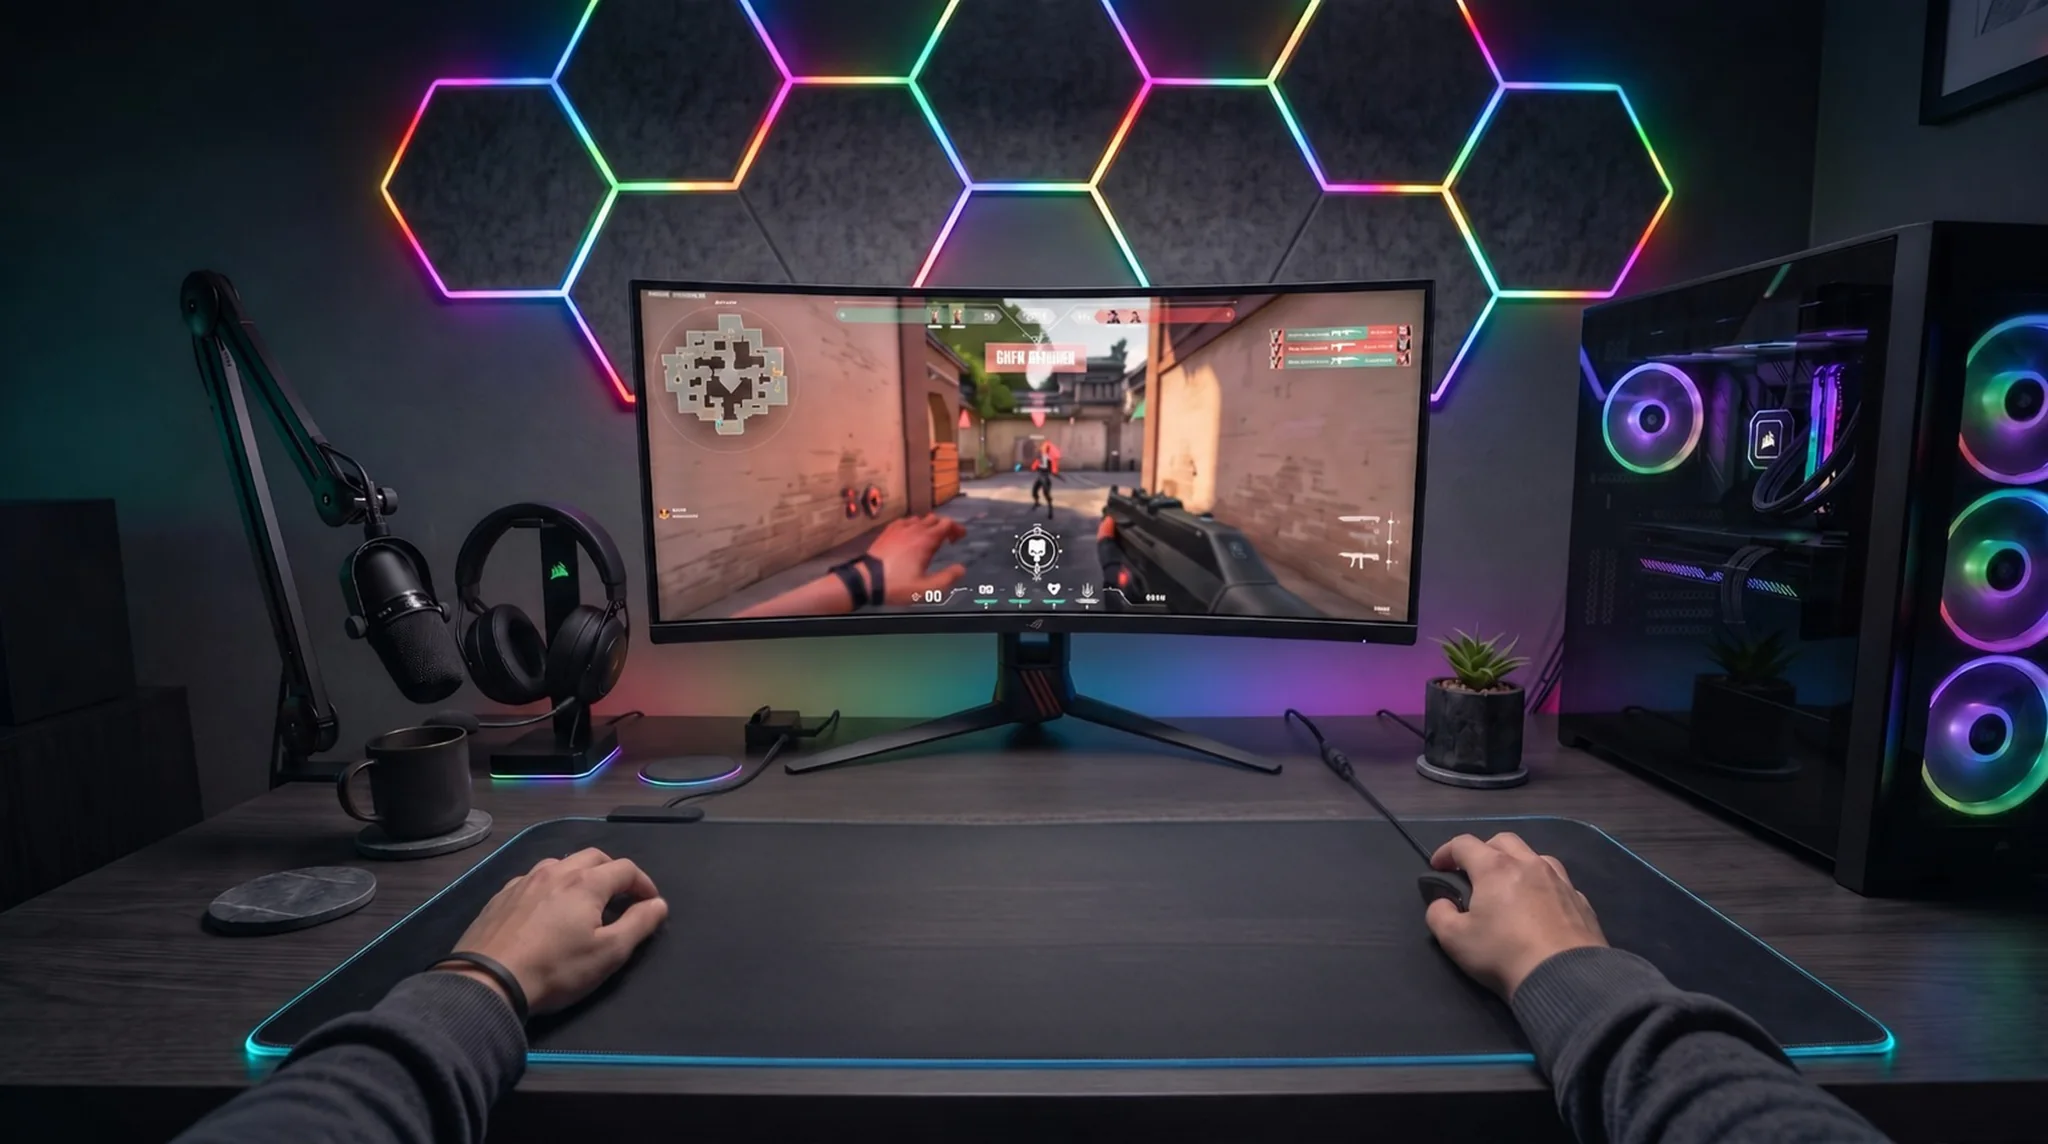
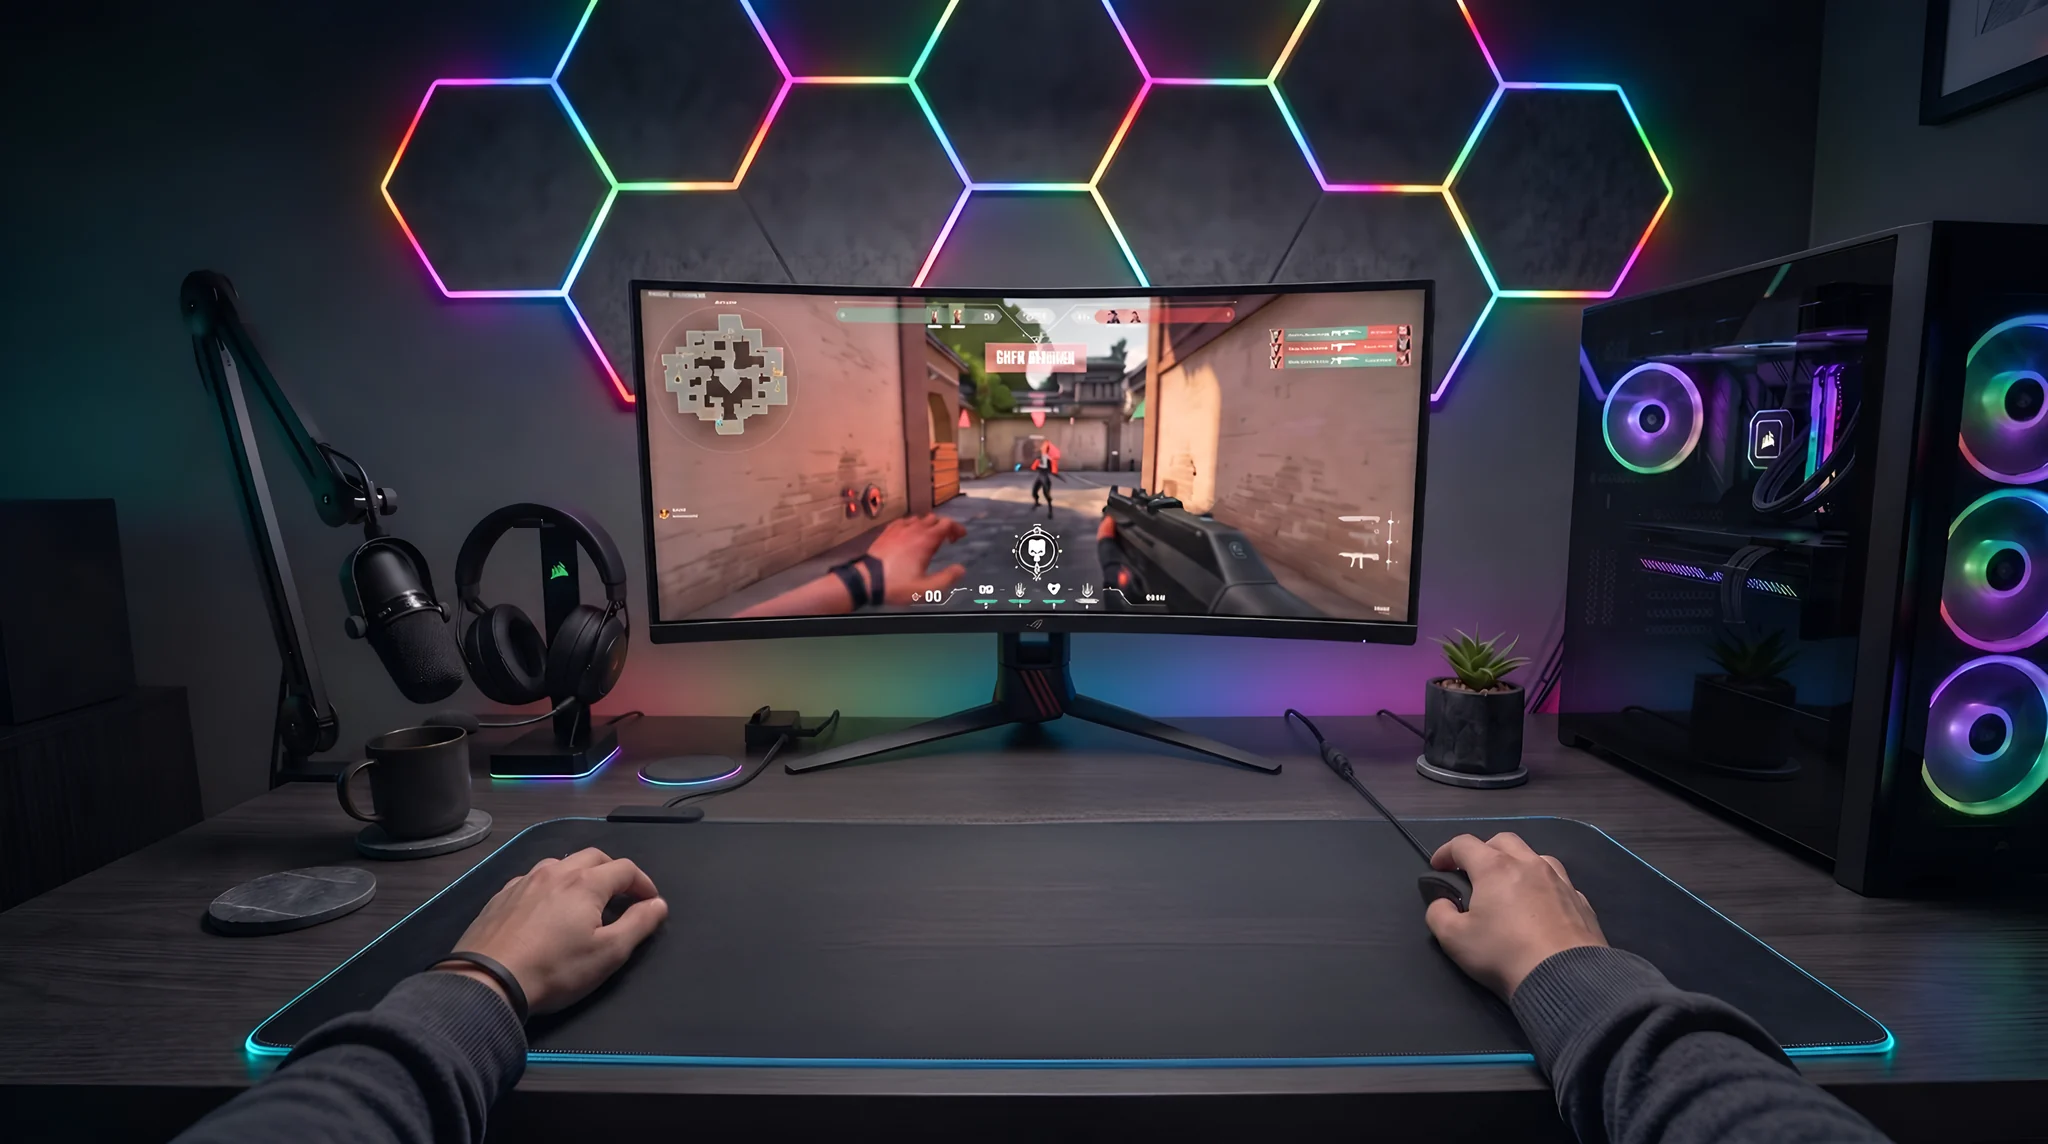
Showcase: clean, high-resolution backgrounds
- Hex wall: build_assets.py now smooths the felt texture and JPEG noise
  on the dark panels (non-local means + bilateral, blended only on dark
  wall pixels away from the monitor and PC), so the panels read as clean
  matte surfaces while the lit strips stay crisp.
- Resolution: backgrounds are built from the Real-ESRGAN 2x sources.
  bg-<env>@2x.webp (4096 px, ~250-280 KB) is served to high-DPI screens
  via srcset; the 1x files are downscaled from the cleaned 2x images.
  Keyboard cut-outs now ship at 2x as well.

Claude-Session: https://claude.ai/code/session_01EZSq2nP3263vqTPXgFduWK

Changed region(s): [[0.875, 0.8872, 0.9375, 0.9178], [0.5, 0.4589, 0.5312, 0.5201], [0.8125, 0.4895, 0.8438, 0.5201]]

diff --git a/showcase/index.html b/showcase/index.html
@@ -8,7 +8,7 @@
   <link rel="preconnect" href="https://fonts.googleapis.com">
   <link rel="preconnect" href="https://fonts.gstatic.com" crossorigin>
   <link href="https://fonts.googleapis.com/css2?family=Archivo:wdth,wght@100..125,300..800&display=swap" rel="stylesheet">
-  <link rel="preload" as="image" href="assets/bg-ember.webp">
+  <link rel="preload" as="image" href="assets/bg-ember.webp" imagesrcset="assets/bg-ember.webp 2048w, assets/bg-ember@2x.webp 4096w" imagesizes="(max-aspect-ratio: 1/1) 220vw, 100vw">
   <link rel="preload" as="image" href="assets/kb-ember.webp">
   <link rel="stylesheet" href="style.css">
 </head>
@@ -26,9 +26,9 @@
       <div class="kb-sticky">
         <div class="kb-scene" id="scene">
           <div class="kb-env" aria-hidden="true">
-            <img class="kb-bg" src="assets/bg-ember.webp" alt="" decoding="async">
-            <img class="kb-bg" src="assets/bg-frost.webp" alt="" decoding="async">
-            <img class="kb-bg" src="assets/bg-prism.webp" alt="" decoding="async">
+            <img class="kb-bg" src="assets/bg-ember.webp" srcset="assets/bg-ember.webp 2048w, assets/bg-ember@2x.webp 4096w" sizes="(max-aspect-ratio: 1/1) 220vw, 100vw" alt="" decoding="async">
+            <img class="kb-bg" src="assets/bg-frost.webp" srcset="assets/bg-frost.webp 2048w, assets/bg-frost@2x.webp 4096w" sizes="(max-aspect-ratio: 1/1) 220vw, 100vw" alt="" decoding="async">
+            <img class="kb-bg" src="assets/bg-prism.webp" srcset="assets/bg-prism.webp 2048w, assets/bg-prism@2x.webp 4096w" sizes="(max-aspect-ratio: 1/1) 220vw, 100vw" alt="" decoding="async">
           </div>
 
           <div class="kb-spot" aria-hidden="true"></div>
@@ -36,9 +36,9 @@
           <div class="kb-layer" id="layer-rest"></div>
 
           <div class="kb-hands" aria-hidden="true">
-            <img class="kb-bg" src="assets/bg-ember.webp" alt="" decoding="async">
-            <img class="kb-bg" src="assets/bg-frost.webp" alt="" decoding="async">
-            <img class="kb-bg" src="assets/bg-prism.webp" alt="" decoding="async">
+            <img class="kb-bg" src="assets/bg-ember.webp" srcset="assets/bg-ember.webp 2048w, assets/bg-ember@2x.webp 4096w" sizes="(max-aspect-ratio: 1/1) 220vw, 100vw" alt="" decoding="async">
+            <img class="kb-bg" src="assets/bg-frost.webp" srcset="assets/bg-frost.webp 2048w, assets/bg-frost@2x.webp 4096w" sizes="(max-aspect-ratio: 1/1) 220vw, 100vw" alt="" decoding="async">
+            <img class="kb-bg" src="assets/bg-prism.webp" srcset="assets/bg-prism.webp 2048w, assets/bg-prism@2x.webp 4096w" sizes="(max-aspect-ratio: 1/1) 220vw, 100vw" alt="" decoding="async">
           </div>
 
           <div class="kb-mist" aria-hidden="true">

diff --git a/showcase/tools/build_assets.py b/showcase/tools/build_assets.py
@@ -1,12 +1,15 @@
 """Builds the optimised showcase assets from the Figma exports in assets/src.
 
-    pip install pillow numpy
+    pip install pillow numpy opencv-python-headless
     python3 showcase/tools/build_assets.py
 
 Outputs (in showcase/assets):
   bg-<env>.webp      environment photos (2048x1144)
   bg-<env>@2x.webp   4096x2288 versions for high-DPI screens, built from
-                     assets/src/bg-<env>@2x.png when present (see upscale.py)
+                     assets/src/bg-<env>@2x.png when present (see upscale.py).
+                     When the 2x source exists, the felt texture and JPEG
+                     noise on the dark hex wall are smoothed (clean_wall) and
+                     the 1x file is downscaled from that cleaned image.
   kb-<env>.webp      keyboard cut-outs with alpha (2x when available)
   hands-mask.png     union of the hand/arm silhouettes of all three photos.
                      The page uses it as a CSS mask over a copy of the
@@ -19,6 +22,7 @@ from pathlib import Path
 
 import numpy as np
 
+import cv2
 from PIL import Image, ImageChops, ImageDraw, ImageFilter
 
 ROOT = Path(__file__).resolve().parent.parent
@@ -99,6 +103,32 @@ def hand_mask(env):
     return big.resize((W, H), Image.LANCZOS).filter(ImageFilter.GaussianBlur(1.6))
 
 
+def clean_wall(im):
+    """Smooth the dark hex panels without touching the lit strips.
+
+    Non-local-means removes the fine grain, then two bilateral passes flatten
+    the blotchy felt while keeping edges. The result is blended in only on
+    dark pixels of the wall (top of the frame, away from the monitor and PC);
+    the lit strips are bright, so they stay untouched. Feathered, no seam.
+    """
+    bgr = cv2.cvtColor(np.asarray(im), cv2.COLOR_RGB2BGR)
+    smooth = cv2.fastNlMeansDenoisingColored(bgr, None, 12, 12, 7, 35)
+    for _ in range(2):
+        smooth = cv2.bilateralFilter(smooth, 15, 20, 9)
+
+    h, w = bgr.shape[:2]
+    k = w / W  # mask boxes below are in 1x photo px
+    value = bgr.max(axis=2).astype(np.float32) / 255
+    dark = np.clip((0.46 - value) / 0.12, 0, 1)
+    region = np.zeros((h, w), np.float32)
+    region[: int(560 * k), :] = 1
+    region[int(250 * k): int(640 * k), int(600 * k): int(1420 * k)] = 0  # monitor
+    region[: int(900 * k), int(1520 * k):] = 0  # PC case
+    m = cv2.GaussianBlur(dark * region, (0, 0), 6 * k)[..., None]
+    out = bgr * (1 - m) + smooth * m
+    return Image.fromarray(cv2.cvtColor(out.round().astype(np.uint8), cv2.COLOR_BGR2RGB))
+
+
 def mist(w=1024, h=512, seed=7):
     """Tileable fractal mist: low-pass filtered noise (periodic via FFT)."""
     rng = np.random.default_rng(seed)
@@ -118,11 +148,14 @@ def mist(w=1024, h=512, seed=7):
 
 def main():
     for env in ENVS:
-        bg = aligned(env, Image.open(SRC / f"bg-{env}.png").convert("RGB"))
-        bg.save(OUT / f"bg-{env}.webp", quality=84, method=6)
         hi = SRC / f"bg-{env}@2x.png"
         if hi.exists():
-            aligned(env, Image.open(hi).convert("RGB"), 2).save(OUT / f"bg-{env}@2x.webp", quality=80, method=6)
+            big = aligned(env, clean_wall(Image.open(hi).convert("RGB")), 2)
+            big.save(OUT / f"bg-{env}@2x.webp", quality=82, method=6)
+            bg = big.resize((W, H), Image.LANCZOS)
+        else:
+            bg = aligned(env, Image.open(SRC / f"bg-{env}.png").convert("RGB"))
+        bg.save(OUT / f"bg-{env}.webp", quality=86, method=6)
         # Keyboards: ship the 2x cut-out when present (drawn ~1400 device px
         # wide on large high-DPI screens), else the original export.
         kb = SRC / f"kb-{env}@2x.png"

diff --git a/showcase/README.md b/showcase/README.md
@@ -29,12 +29,16 @@ python3 -m http.server --directory showcase 8080
 
 ## Assets
 
-`assets/src` holds the Figma exports. `tools/build_assets.py` converts them to WebP,
+`assets/src` holds the Figma exports. `tools/upscale.py` makes 2x versions with Real-ESRGAN
+(the large 2x PNGs are git-ignored; rerun it to regenerate them). With those present,
+`build_assets.py` smooths the noisy felt on the dark hex wall (edge-preserving, so the lit
+strips stay crisp), writes `bg-<env>@2x.webp` for high-DPI screens via `srcset`, and
+downscales the 1x files from the cleaned images. `tools/build_assets.py` converts them to WebP,
 aligns the frost photo to the other two (it was shot slightly higher, which caused a
 double image during the cross-fade), and draws the feathered hand mask from traced
 outlines, and generates the tileable mist texture. Re-run it after you replace any image:
 
 ```sh
-pip install pillow numpy
+pip install pillow numpy opencv-python-headless
 python3 showcase/tools/build_assets.py
 ```
